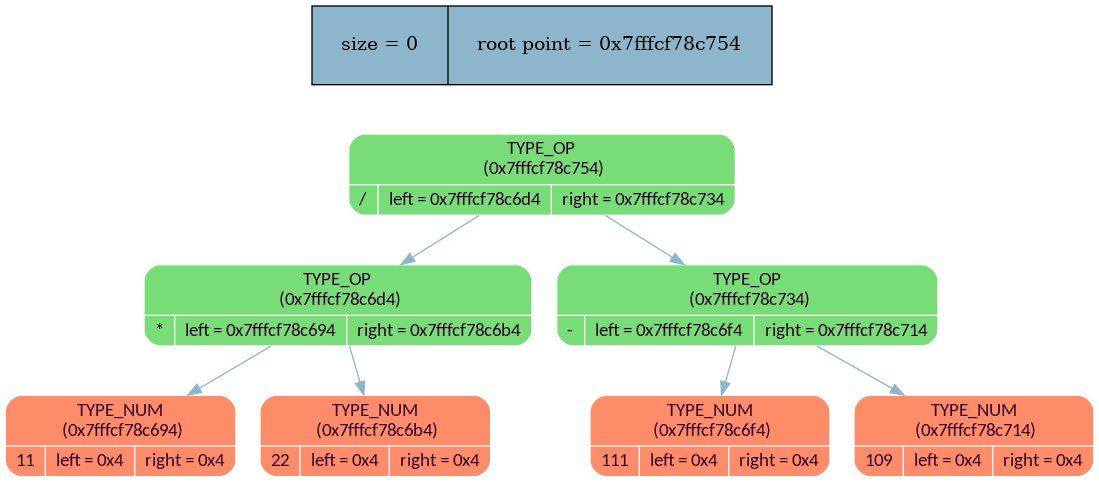
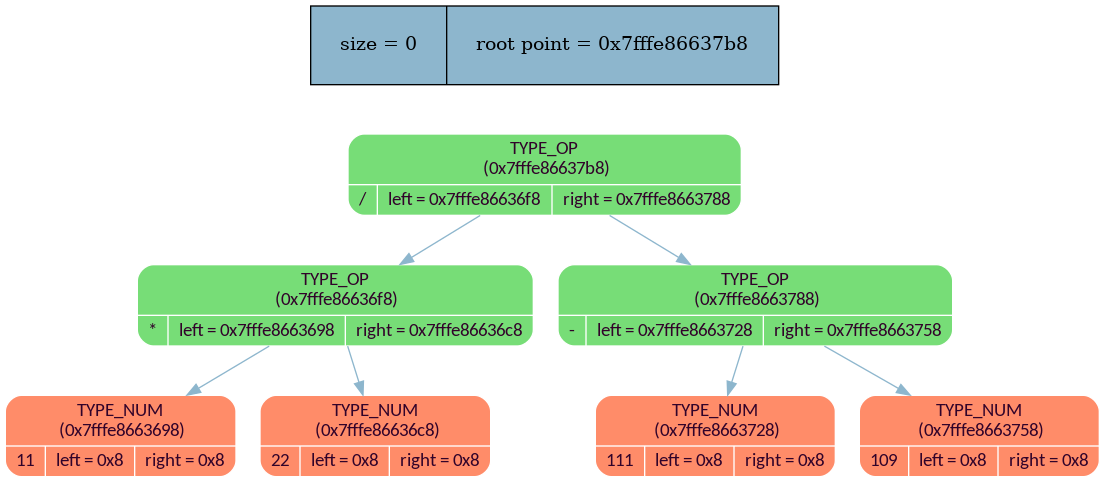
added notifcations about syntax errors

diff --git a/logs/log_file.html b/logs/log_file.html
@@ -4,48 +4,13 @@
 
 <font color = #8DB6CD size=6>Tree was successfully created root </font>
 
-<font color = #70DB53 size=5>Created node: address (0x7fffcf78c694) | value  (10)</font>
+<font color = #70DB53 size=5>Created node: address (0x7fffddc31698) | value  (10)</font>
 
-<font color = #70DB53 size=5>Created node: address (0x7fffcf78c6b4) | value  (10)</font>
+<font color = #70DB53 size=5>Created node: address (0x7fffddc316c8) | value  (10)</font>
 
-<font color = #70DB53 size=5>Created node: address (0x7fffcf78c6d4) | value  (42)</font>
+<font color = #70DB53 size=5>Created node: address (0x7fffddc316f8) | value  (42)</font>
 
-<font color = #6018CF size=5>Created edge: parent address (0x7fffcf78c6d4) | value (42); left  (0x7fffcf78c694) | value (42)</font>
+<font color = #6018CF size=5>Created edge: parent address (0x7fffddc316f8) | value (42); left  (0x7fffddc31698) | value (42)</font>
 
-<font color = #6018CF size=5>Created edge: parent address (0x7fffcf78c6d4) | value (0); right  (0x7fffcf78c6b4) | value (0)</font>
-
-<font color = #70DB53 size=5>Created node: address (0x7fffcf78c6f4) | value  (10)</font>
-
-<font color = #70DB53 size=5>Created node: address (0x7fffcf78c714) | value  (10)</font>
-
-<font color = #70DB53 size=5>Created node: address (0x7fffcf78c734) | value  (45)</font>
-
-<font color = #6018CF size=5>Created edge: parent address (0x7fffcf78c734) | value (45); left  (0x7fffcf78c6f4) | value (45)</font>
-
-<font color = #6018CF size=5>Created edge: parent address (0x7fffcf78c734) | value (0); right  (0x7fffcf78c714) | value (0)</font>
-
-<font color = #70DB53 size=5>Created node: address (0x7fffcf78c754) | value  (47)</font>
-
-<font color = #6018CF size=5>Created edge: parent address (0x7fffcf78c754) | value (47); left  (0x7fffcf78c6d4) | value (47)</font>
-
-<font color = #6018CF size=5>Created edge: parent address (0x7fffcf78c754) | value (0); right  (0x7fffcf78c734) | value (0)</font>
-
-
-
-<font color = #8DB6CD size = 6>Here is the print of your tree</font>
-
-<img src = ../logs/log_pics/tree_d1.png width = 800 height = 350>
-<font color = orange size=5>Node was removed: address (0x7fffcf78c694) </font>
-
-<font color = orange size=5>Node was removed: address (0x7fffcf78c6b4) </font>
-
-<font color = orange size=5>Node was removed: address (0x7fffcf78c6d4) </font>
-
-<font color = orange size=5>Node was removed: address (0x7fffcf78c6f4) </font>
-
-<font color = orange size=5>Node was removed: address (0x7fffcf78c714) </font>
-
-<font color = orange size=5>Node was removed: address (0x7fffcf78c734) </font>
-
-<font color = orange size=5>Node was removed: address (0x7fffcf78c754) </font>
+<font color = #6018CF size=5>Created edge: parent address (0x7fffddc316f8) | value (0); right  (0x7fffddc316c8) | value (0)</font>
 

diff --git a/tree/rec_descent.cpp b/tree/rec_descent.cpp
@@ -1,12 +1,10 @@
 #include "tree.h"
 
 static int pos_in_file = 0;
-
 tree_node_t* rec_descent (const char* file_dir)
 {
-
     char* buffer = read_file (file_dir);
-    tree_node_t* ret_node =  get_g (buffer);
+    tree_node_t* ret_node = get_g (buffer);
     free (buffer);
     return ret_node;
 }
@@ -16,7 +14,7 @@ tree_node_t* rec_descent (const char* file_dir)
 tree_node_t* get_g (const char* buffer)
 {
     tree_node_t* tree_node = get_e (buffer);
-    MY_ASSERT (buffer[pos_in_file++] == '$');
+    if (buffer[pos_in_file++] != '$') syntax_error (T_UNREC_SYNTAX_ERROR, buffer, CUR_POS_IN_PROG);
     return tree_node;
 }
 
@@ -43,8 +41,9 @@ tree_node_t* get_t (const char* buffer)
         int op = buffer[pos_in_file];
         pos_in_file++;
         tree_node_t* r_node = get_p (buffer);
-        if   (op == '*') l_node = tree_new_op_node (OP_MUL, l_node, r_node);
-        else             l_node = tree_new_op_node (OP_DIV, l_node, r_node);
+        if      (op == '*')  l_node = tree_new_op_node (OP_MUL, l_node, r_node);
+        else if (op == '/') l_node = tree_new_op_node (OP_DIV, l_node, r_node);
+        else    syntax_error (T_NO_MUL_OR_DIV_OP, buffer, CUR_POS_IN_PROG);
     }
     return l_node;
 }
@@ -55,7 +54,7 @@ tree_node_t* get_p (const char* buffer)
     {
         pos_in_file++;
         tree_node_t* tree_node = get_e (buffer);
-        MY_ASSERT (buffer[pos_in_file] == ')');
+        if (buffer[pos_in_file] != ')') syntax_error (T_NO_CLOSED_BRACKETS, buffer, CUR_POS_IN_PROG);
         pos_in_file++;
         return tree_node;
     }
@@ -71,9 +70,11 @@ tree_node_t* get_n (const char* buffer)
         val = val * 10 + buffer[pos_in_file] - '0';
         pos_in_file++;
     }
-    MY_ASSERT (start_pos < pos_in_file)
+    if (start_pos >= pos_in_file) syntax_error (T_NO_NUMBER, buffer, CUR_POS_IN_PROG);
     return tree_new_num_node (val);
 }
+
+//----------------------------------------------------------------------------------------------------------------------
 
 char* read_file (const char* file_dir)
 {
@@ -88,4 +89,33 @@ char* read_file (const char* file_dir)
     fread  (buffer, sizeof (char), file_data.st_size, seq_file);
     fclose (seq_file);
     return buffer;
+}
+
+void syntax_error (int num_of_error, const char* buffer, const char* file_name, const char* func_name, int num_of_line)
+{
+    fprintf (stderr, "\033[91mSyntaxERROR  \033[0m: FILE: %s, FUNCTION: %s, LINE: %d\n", file_name, func_name, num_of_line);
+    switch (num_of_error)
+    {
+        case T_NO_CLOSED_BRACKETS:
+            fprintf (stderr, "\033[91mNo closing bracket \033[0m: ");
+            break;
+
+        case T_NO_NUMBER:
+            fprintf (stderr, "\033[91mWas expected num_value  \033[0m: ");
+            break;
+
+        case T_NO_MUL_OR_DIV_OP:
+            fprintf (stderr, "\033[91mWas expected div or mul operation \033[0m: ");
+            break;
+
+        case T_UNREC_SYNTAX_ERROR:
+            fprintf (stderr, "\033[91mName of syntax error wasn't detected. Check input. \033[0m: ");
+            break;
+    }
+    for (int i = 0; i < pos_in_file + 1; i++)
+    {
+        fprintf (stderr, "%c", buffer[i]);
+    }
+    fprintf (stderr, "\n");
+    exit (-1);
 }

diff --git a/tree/tree.h b/tree/tree.h
@@ -15,6 +15,8 @@
 
 #define TREE_DUMP_SET      graph_dump_set, &parent->value, *graph_dump_set->nodes, &parent->right->value, &parent->left->value
 
+#define CUR_POS_IN_PROG    __FILE__, __PRETTY_FUNCTION__, __LINE__
+
 #define TREE_GRAPH_DOT_DIR   "./tree/graph_lib/tree_dump.dot"
 #define TREE_REC_DESCENT_DIR "./test_files/read_descent.txt"
 #define TREE_LOGS_PNG_DIR    "./logs/log_pics"
@@ -31,6 +33,7 @@ typedef int tree_data_type;
 struct tree_node_t
 {
     int            node_type;
+    int            code_of_error = 0;
     tree_data_type value;
     tree_node_t*   right;
     tree_node_t*   left;
@@ -63,6 +66,8 @@ enum NODE_TYPE
     OP_CTG  = 58,
 };
 
+//------------------------------------------------------------------------------------------------------------------------------------------------------------------------------------------------------------
+
 enum TREE_CODE_OF_PRINT
 {
     T_TREE_SUC_CREATED      =  0,
@@ -79,6 +84,14 @@ enum TREE_CODE_OF_PRINT
     T_TYPE_NUM_HAS_CHILD    = -3,
     T_DIVISION_BY_ZERO      = -4,
     T_UNSUPPORTED_OPER      = -5,
+};
+
+enum TREE_SYNTAX_ERROR
+{
+    T_NO_CLOSED_BRACKETS   = -1,
+    T_NO_NUMBER            = -2,
+    T_NO_MUL_OR_DIV_OP     = -3,
+    T_UNREC_SYNTAX_ERROR   = -100,
 };
 
 //-------------------------------------------TREE_FUNC-----------------------------------------------------------------------------------------------------------------------------------------------
@@ -111,3 +124,4 @@ int          tree_print         (dump_graph_t* graph_dump_set, tree_node_t* pare
 void         write_tree_logs    (int code_of_print, tree_node_t* node = NULL);
 void         signal_handler     (int signal);
 char*        read_file          (const char* file_dir);
+void         syntax_error       (int num_of_error, const char* buffer, const char* file_name, const char* func_name, int num_of_line);

diff --git a/logs/dif_logs.cpp b/logs/dif_logs.cpp
@@ -76,6 +76,8 @@ void write_brackets_logs (int code_of_print, int position_in_file)
     }
 }
 
+//void write_sent_logs ();
+
 int pic_log (const char* label, const char* name_of_pic)
 {
     fprintf (LOG_FILE, "\n\n<font color = #8DB6CD size = 6>%s</font>\n\n", label);

diff --git a/brackets_func.cpp b/brackets_func.cpp
@@ -30,7 +30,6 @@ double tree_eval (tree_node_t* tree_node)
             }
             return tree_eval (tree_node->left) / tree_eval (tree_node->right);
         }
-
         case OP_POW:
         {
             fprintf (stderr, "was made int power\n");
